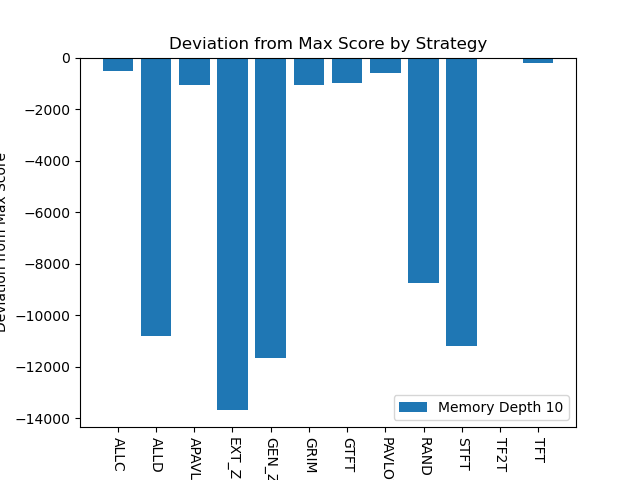
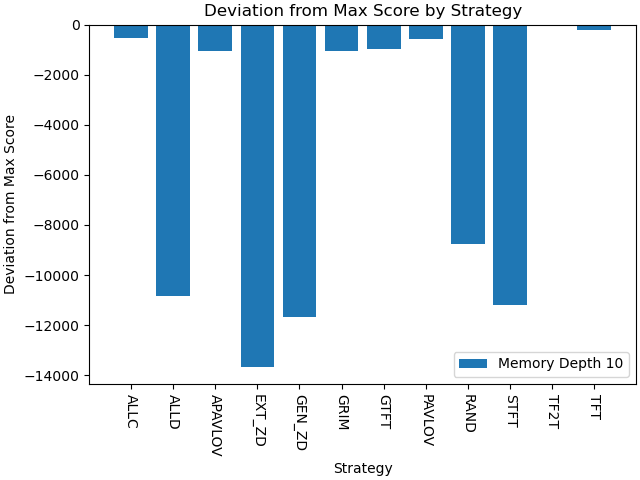
Fit human strategies figures

diff --git a/output/human-only-strategies/visualizer.py b/output/human-only-strategies/visualizer.py
@@ -175,6 +175,7 @@ def visualize_win_by_memory(data: dict, name: str):
     x_axis = np.arange(x)
     width = 0.2
     for i, (memory_depth, results) in enumerate(data.items()):
+        #plt.subplots(layout="constrained")
         strategy = list(results.keys())
         wins = [scores[0] for scores in results.values()]
         offset = width * i
@@ -198,6 +199,7 @@ def visualize_score_by_memory(data: dict , name:str):
     x_axis = np.arange(x)
     width = 0.2
     for i, (memory_depth, results) in enumerate(data.items()):
+        plt.subplots(layout="constrained")
         strategy = list(results.keys())
         cumulative_score = [scores[3] for scores in results.values()]
         score_ratio = [score - max(cumulative_score) for score in cumulative_score]
@@ -213,5 +215,5 @@ def visualize_score_by_memory(data: dict , name:str):
         plt.close()
 
 if __name__ == "__main__":
-    visualize_win_by_memory(data_r1000, name="R1000")
-    #visualize_score_by_memory(data_r1000, name="R1000")
+    #visualize_win_by_memory(data_r1000, name="R1000")
+    visualize_score_by_memory(data_r10, name="R10")
